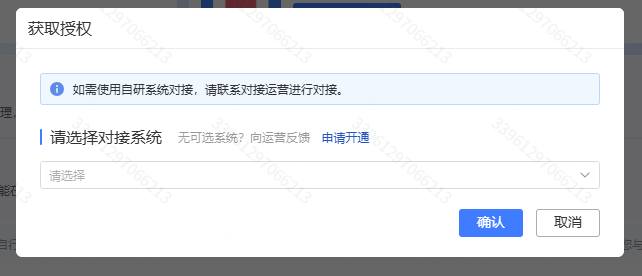
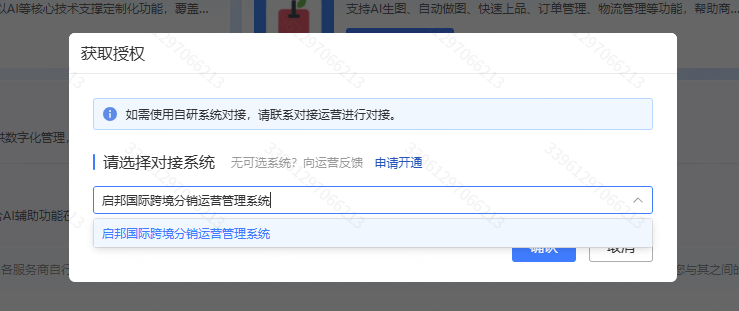
docs(temu-publish): 授权帮助第 2 步改成指定对接系统「启邦国际跨境分销运营管理系统」
用户反馈：第 2 步只写「选对接系统 → 确认」太笼统，实际操作是在弹窗下拉里
输入并选中「启邦国际跨境分销运营管理系统」，再点确认。

- 第 2 步标题：点「获取授权」→ 选「启邦国际跨境分销运营管理系统」→ 确认
- 正文：写明「请选择对接系统」的下拉可以直接打字、输入系统名并选中（别选成别的），
  再点确认；下拉是「无可选系统」时先点「申请开通」让对接运营开出来
- 配图换成实际的下拉展开截图（能直接看到要选的系统名），alt 文案同步
- 「新增店铺：粘贴 access_token」旁的说明也补一句「对接系统选启邦国际…」

868 测试 + tsc 过；实测帮助弹窗第 2 步标题/正文/图片都对，图片正常加载（739px 宽），无溢出。

diff --git a/web-frontend/src/modules/temu_publish/pages/TemuPublishPage.tsx b/web-frontend/src/modules/temu_publish/pages/TemuPublishPage.tsx
@@ -3343,8 +3343,8 @@ export function TemuPublishPage({ onOpenDraftLibrary }: { onOpenDraftLibrary?: (
             <span>
               新增店铺：粘贴 access_token
               <em className="temu-muted">
-                Temu 后台：系统管理 → 授权管理 → 获取授权，复制 access_token 后面的整串。
-                保存前会先打一次网关校验，通过才存进列表
+                Temu 后台：系统管理 → 授权管理 → 获取授权（对接系统选「启邦国际跨境分销运营管理系统」），
+                复制 access_token 后面的整串。保存前会先打一次网关校验，通过才存进列表
               </em>
             </span>
             <textarea
@@ -4854,22 +4854,22 @@ export function TemuPublishPage({ onOpenDraftLibrary }: { onOpenDraftLibrary?: (
               <section className="temu-help-step">
                 <div className="temu-help-step-head">
                   <i>2</i>
-                  <strong>点「获取授权」→ 选对接系统 → 确认</strong>
+                  <strong>点「获取授权」→ 选「启邦国际跨境分销运营管理系统」→ 确认</strong>
                 </div>
                 <p>
-                  点页面里的「获取授权」。弹窗第一步写着「如需使用自研系统对接，请联系对接运营进行对接」：
-                  下拉里显示「无可选系统」时点旁边的「向运营申请」，让对接运营把系统开出来；
-                  开通后在下拉里选上系统，点「确认」。
+                  点页面里的「获取授权」。弹窗里「请选择对接系统」的下拉<strong>可以直接打字</strong>：
+                  输入<strong>「启邦国际跨境分销运营管理系统」</strong>并选中它（我们的对接系统，别选成别的），
+                  再点「确认」。下拉里如果是「无可选系统」，先点右边的「申请开通」让对接运营把系统开出来，再回来选。
                 </p>
                 <img
                   className="temu-help-shot"
                   src="/help/temu-auth-grant.png"
-                  alt="获取授权弹窗：联系对接运营 → 选择对接系统"
+                  alt="获取授权弹窗：在下拉里输入并选中「启邦国际跨境分销运营管理系统」，再点确认"
                   title="点击看大图"
                   onClick={() =>
                     setImagePreview({
                       src: "/help/temu-auth-grant.png",
-                      alt: "获取授权弹窗：联系对接运营 → 选择对接系统",
+                      alt: "获取授权弹窗：在下拉里输入并选中「启邦国际跨境分销运营管理系统」，再点确认",
                     })
                   }
                 />
